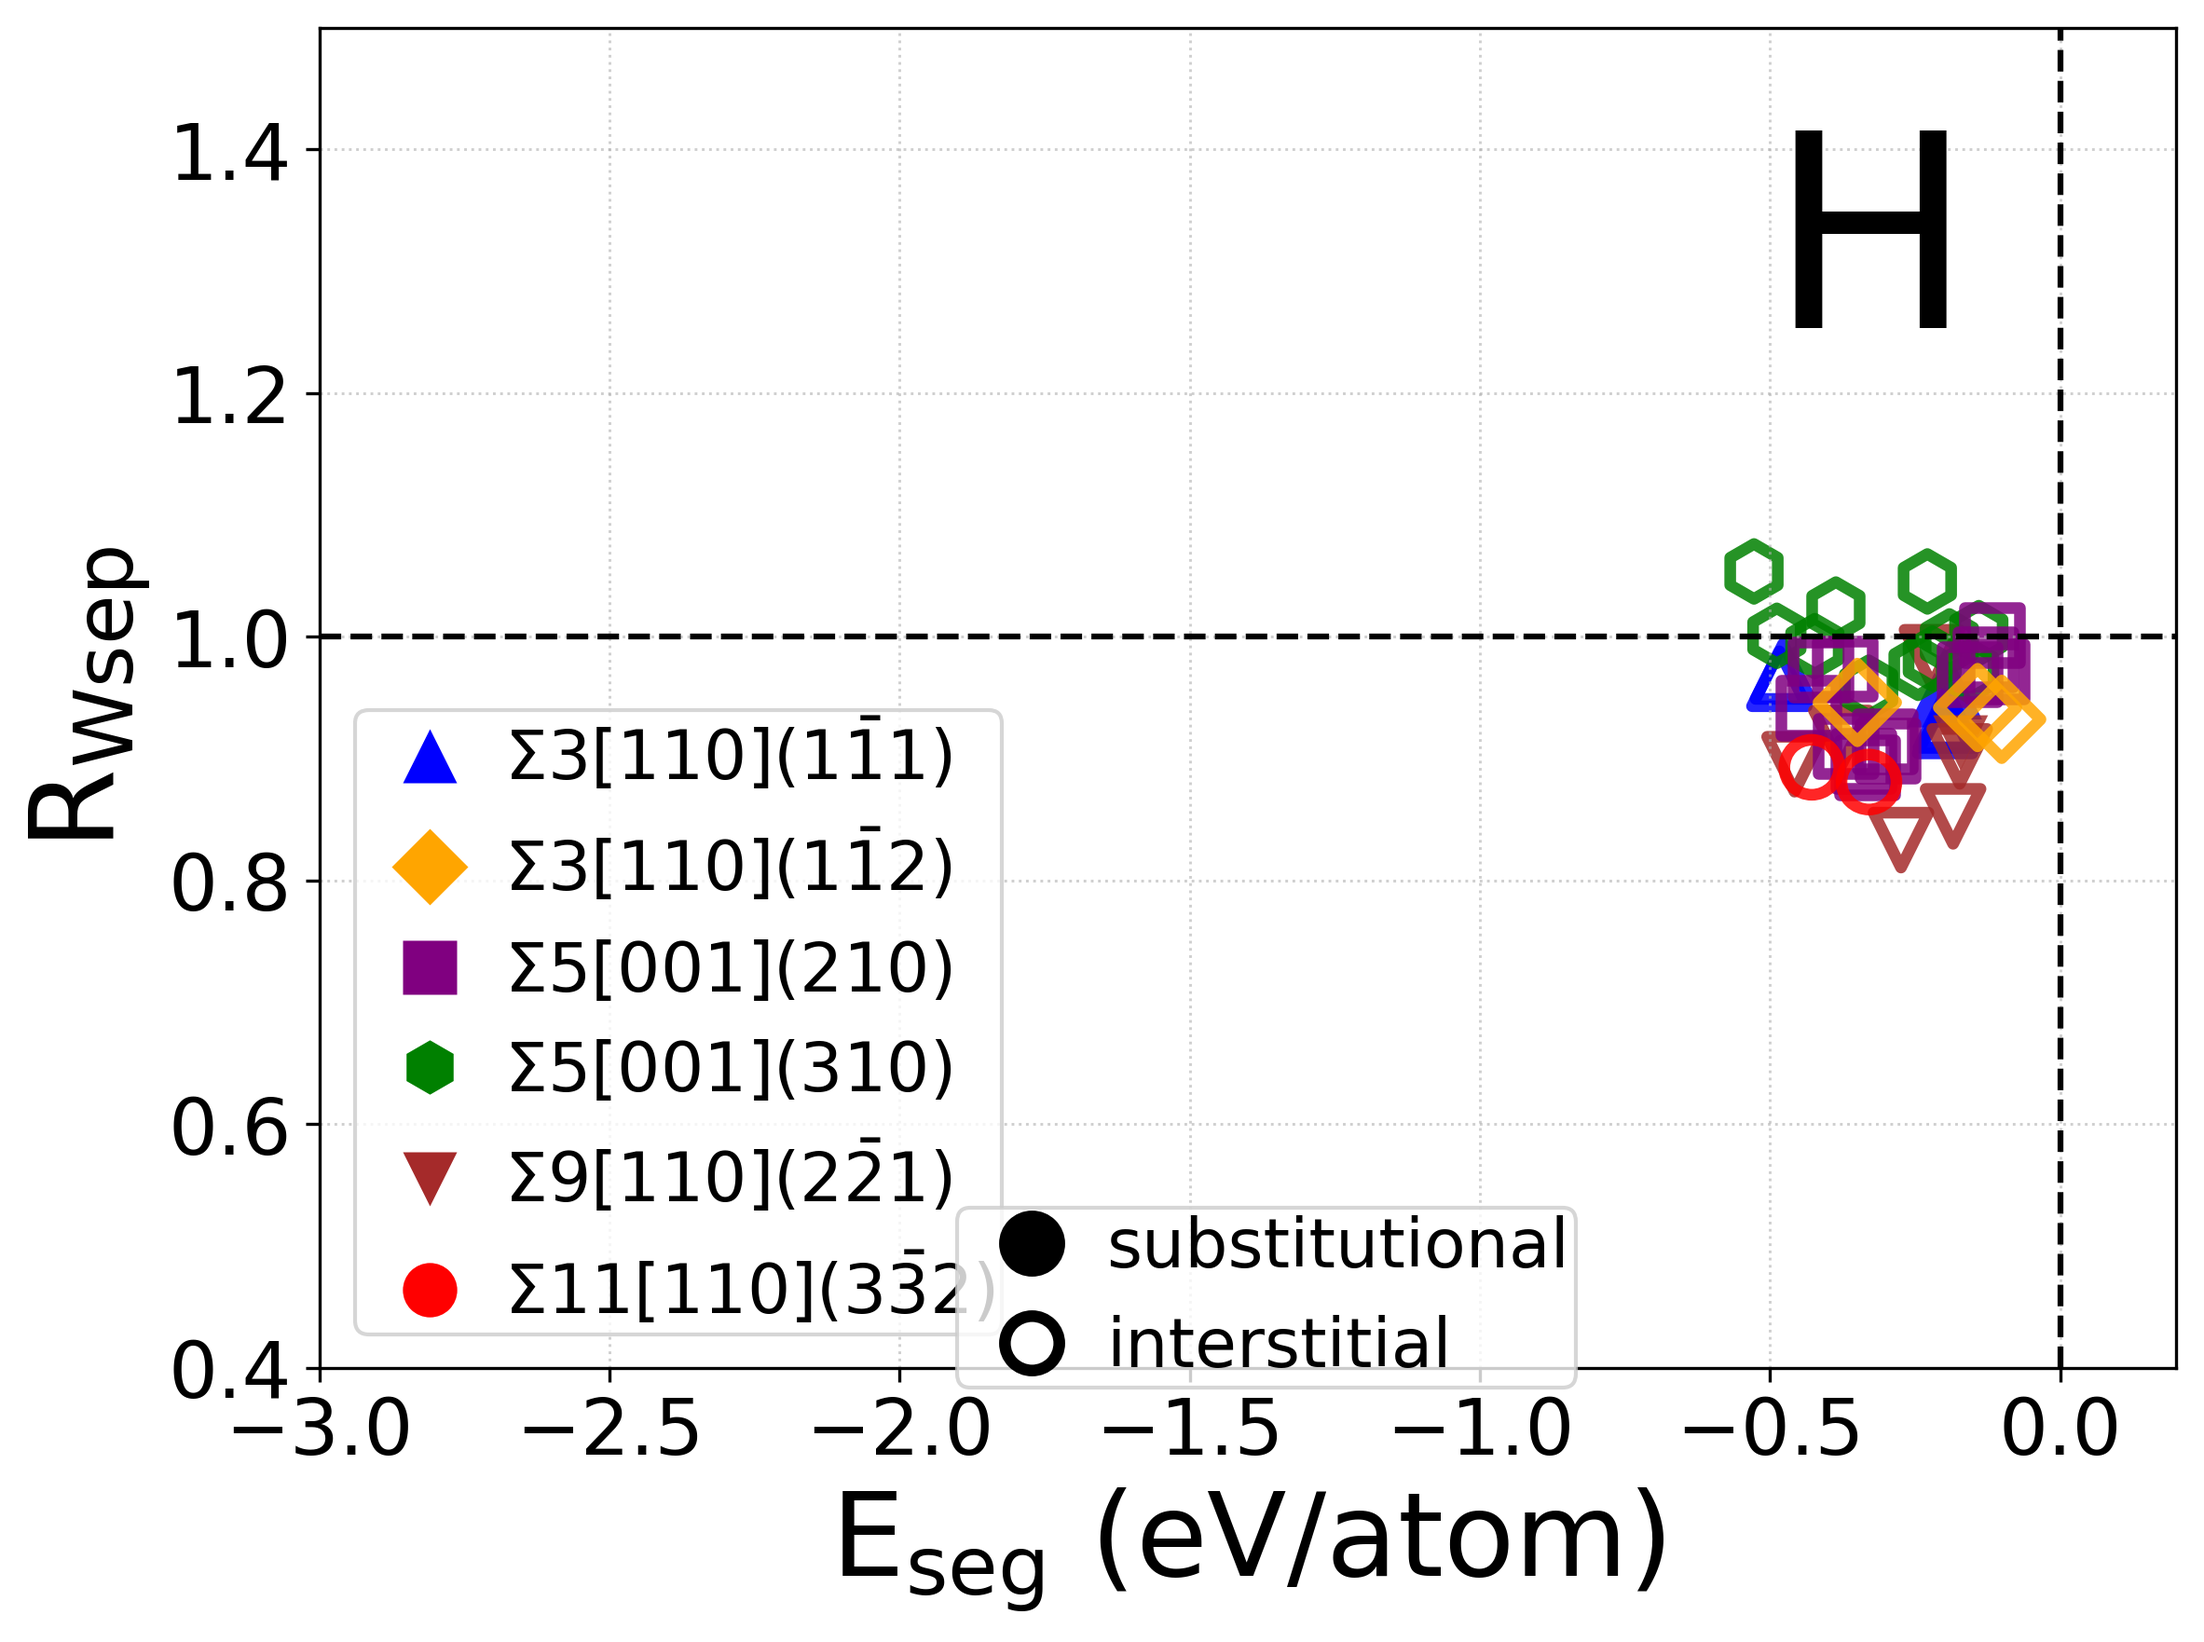
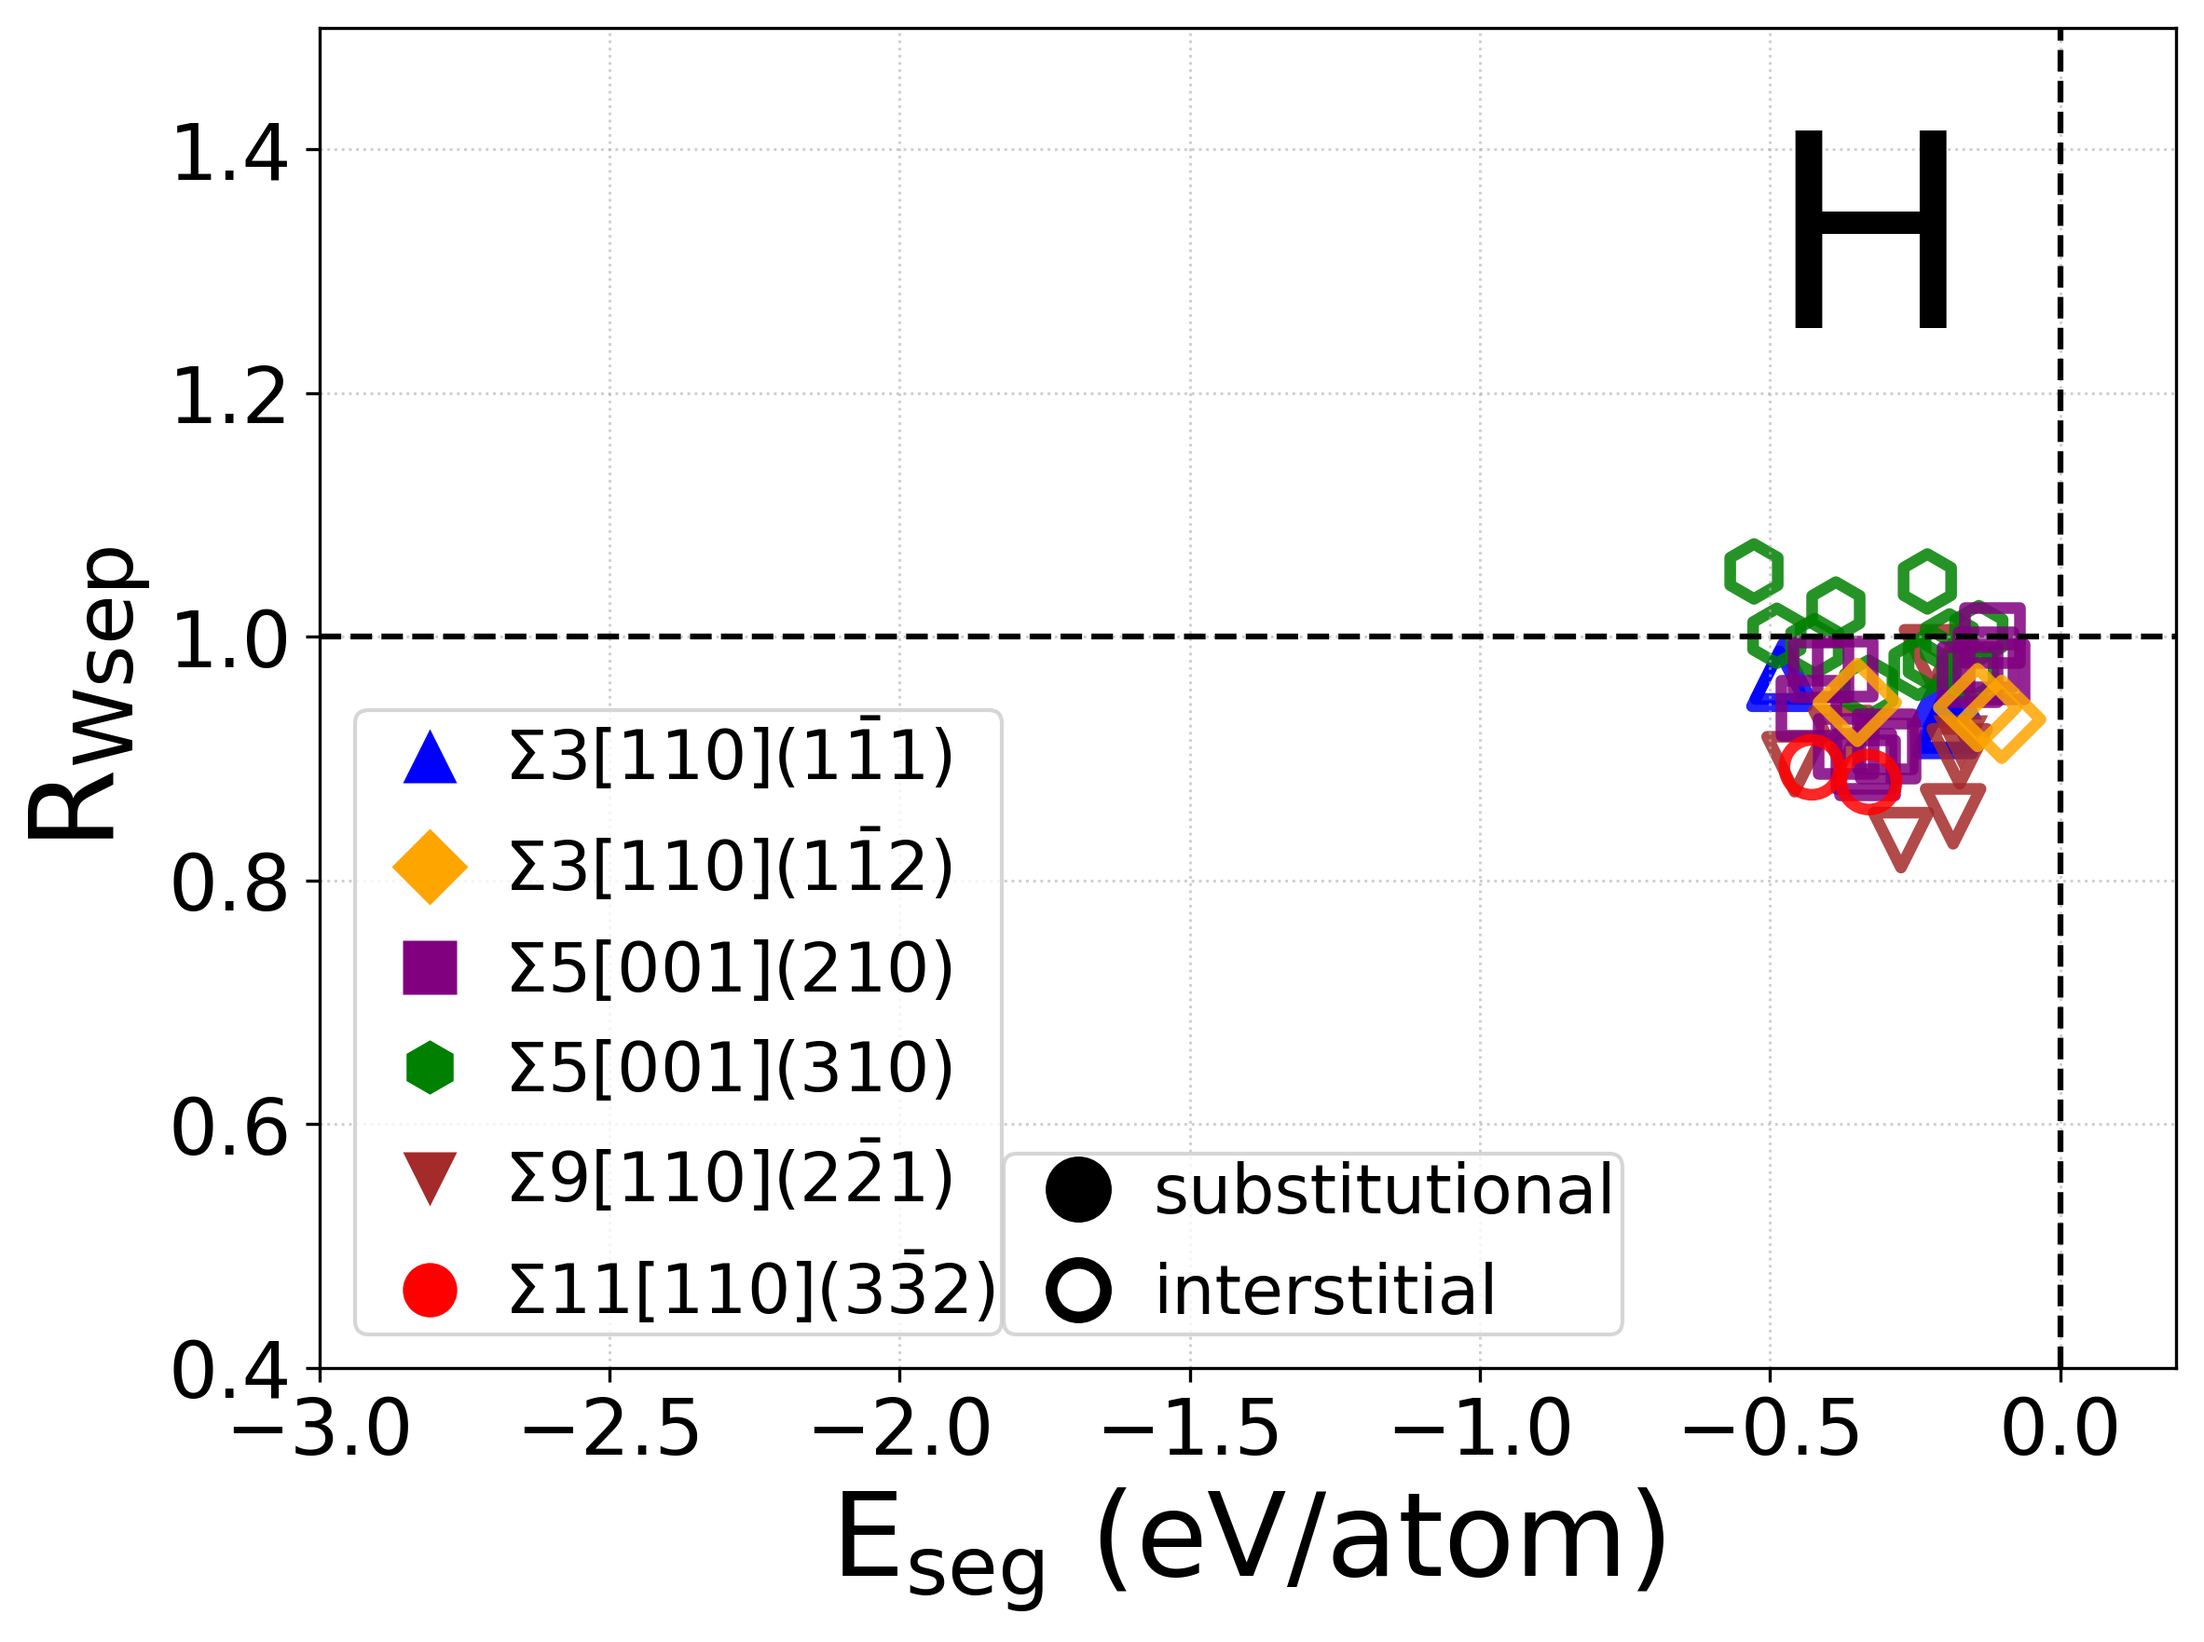
Regenerate figures with tweaked legend layouts

Changed region(s): [[0.4321, 0.6867, 0.7408, 0.8428]]

diff --git a/scripts/MainFigures/generate_main_figures.py b/scripts/MainFigures/generate_main_figures.py
@@ -219,7 +219,10 @@ element_label_position_fig6 = {
 SCATTER_KW_FIG6 = dict(SCATTER_KW)
 SCATTER_KW_FIG6["legend_fontsize"] = 18
 SCATTER_KW_FIG6["style_legend_fontsize"] = 18
-
+SCATTER_KW_FIG6["legend_anchor"] = (0.60, 0.01)
+SCATTER_KW_FIG6["legend_markersize"] = 14
+SCATTER_KW_FIG6["style_legend_loc"] = "lower left"
+SCATTER_KW_FIG6["style_legend_anchor"] = (0.25, 0.00)
 for ele in LIGHT_ELEMENTS:
     ele_data = df_vor[(df_vor["element"] == ele) & (df_vor["VorNN_tot_vol"] < 20)].copy()
     show = ele == "C"
@@ -255,7 +258,7 @@ for ele in LIGHT_ELEMENTS:
         y_label=r"E$_{\rm{seg}}$ (eV/atom)",
         show_legend=show, show_style_legend=show,
         legend_anchor=(0.641, -0.001),
-        style_legend_anchor=(0.641, 0.55),
+        style_legend_anchor=(0.641, 0.45),
         **{k: v for k, v in SCATTER_KW.items() if k not in ("legend_anchor", "style_legend_anchor")},
     )
     ax.axhline(0, linestyle="--", color="k")
@@ -302,7 +305,7 @@ if "site_types_mixed" in df_filt.columns:
     ax.set_xticks(x)
     ax.set_xticklabels(elements, fontsize=20)
     ax.set_ylabel("Unique sites in GB set", fontsize=24)
-    ax.legend(fontsize=17.5, loc="upper left", bbox_to_anchor=(0.0, 1.18), ncol=3, frameon=True, borderaxespad=0.1)
+    ax.legend(fontsize=17.5, loc="upper left", bbox_to_anchor=(0.0, 1.15), ncol=3, frameon=True, borderaxespad=0.1)
     ax.tick_params(axis="y", labelsize=20)
 
     # Annotate percentages
@@ -346,7 +349,7 @@ if df_main_path.exists():
     SCATTER_KW_WSEP["legend_fontsize"] = 17.5
     SCATTER_KW_WSEP["style_legend_fontsize"] = 17.5
     SCATTER_KW_WSEP["legend_anchor"] = (0.001, 0.00)
-    SCATTER_KW_WSEP["style_legend_anchor"] = (0.325, -0.04)
+    SCATTER_KW_WSEP["style_legend_anchor"] = (0.35, 0.00)
 
     for ele in LIGHT_ELEMENTS:
         df_ele = df_main[(df_main["element"] == ele) & (df_main["VorNN_tot_vol"] < 20) & (df_main["eta_Wsep_RGS_min"] < 3)]
@@ -462,7 +465,8 @@ for ele in LIGHT_ELEMENTS:
     ax.set_ylabel("Count", fontsize=24)
     ax.tick_params(axis="both", labelsize=20)
     if show_legend:
-        ax.legend(fontsize=20, loc="upper right", bbox_to_anchor=(1.0, 0.98))
+        ax.legend(fontsize=20, loc="upper center", bbox_to_anchor=(0.5, 1.0))
+   
     ax.text(0.08, 0.92, ele, transform=ax.transAxes, fontsize=70,
             ha="left", va="top")
     fig.tight_layout()
